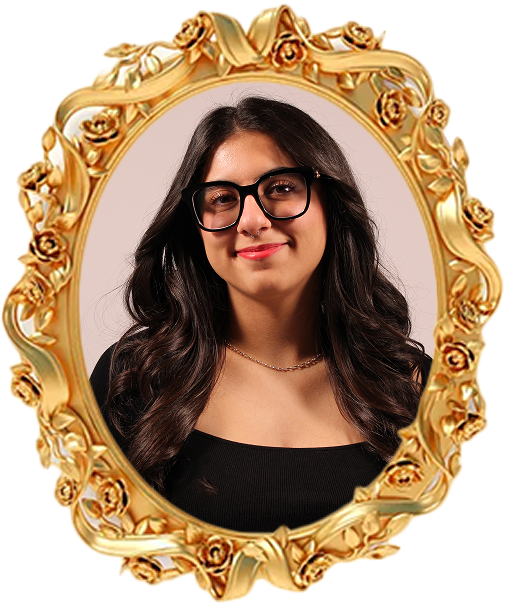
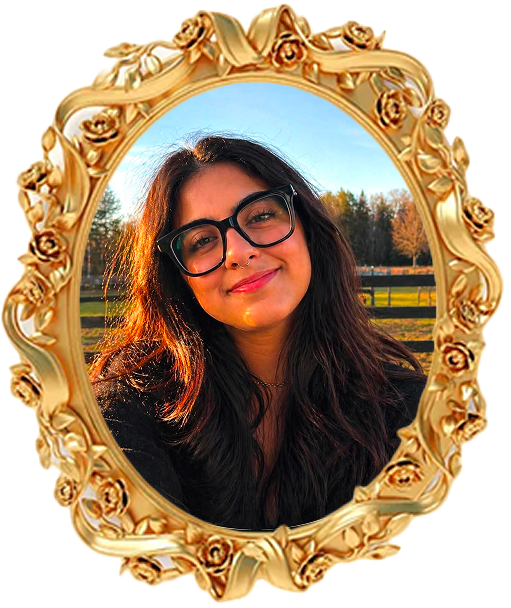
lien osmos

diff --git a/accueil.css b/accueil.css
@@ -507,6 +507,7 @@ a:hover {
 /* soulignement au survol des infos */
 .contact-infos p a:hover {
   text-decoration: underline;
+  color: #F998C8;
 }
 
 /* style des liens de contact */
